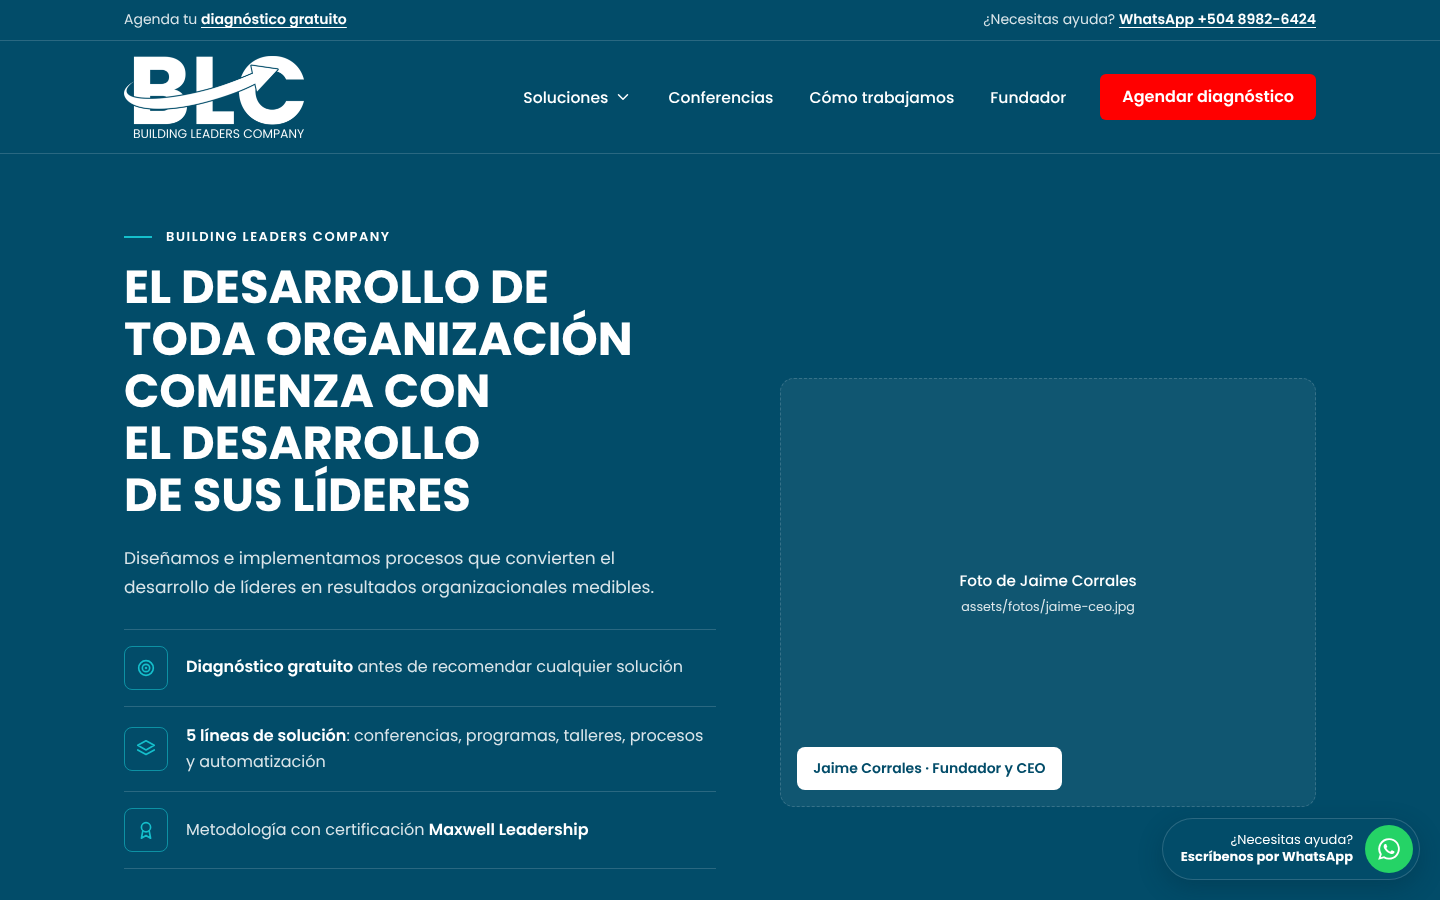
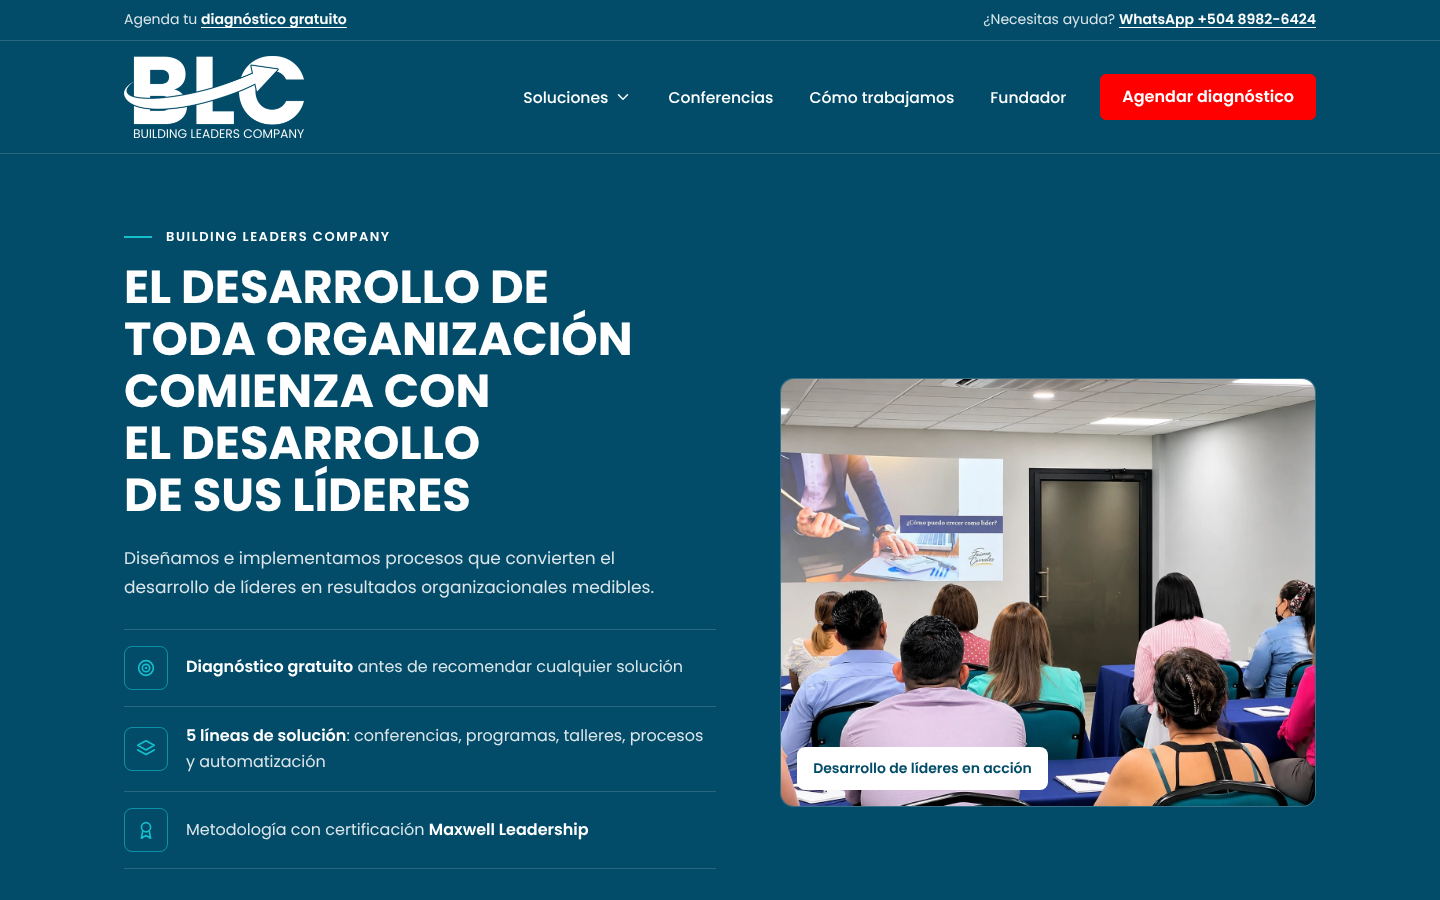
Da más protagonismo a BLC en las fotos del inicio
- Portada del inicio: sesión de liderazgo con participantes (sin Jaime)
- ¿Por qué BLC?: par de fotos de un taller y una sesión en sala de juntas
- Conferencias, ¿Quién es Jaime Corrales?: nueva foto de perfil de pie

Claude-Session: https://claude.ai/code/session_01WCj9xs9Gz3GYaHb4eT4hNZ

Changed region(s): [[0.5312, 0.4044, 1.0, 0.9644]]

diff --git a/src/index.html b/src/index.html
@@ -62,9 +62,9 @@
           </div>
         </div>
         <figure class="hero-media photo-slot photo-slot--dark">
-          <img src="/assets/fotos/jaime-ceo.jpg" alt="Jaime Corrales, Fundador y CEO de Building Leaders Company" width="1280" height="854" onerror="this.remove()">
-          <span>Foto de Jaime Corrales<br><small>assets/fotos/jaime-ceo.jpg</small></span>
-          <figcaption class="media-tag">Jaime Corrales · Fundador y CEO</figcaption>
+          <img src="/assets/fotos/sesion-liderazgo.jpg" alt="Participantes en una sesión de desarrollo de liderazgo de BLC" width="1448" height="1086" onerror="this.remove()">
+          <span>Foto de una sesión de BLC<br><small>assets/fotos/sesion-liderazgo.jpg</small></span>
+          <figcaption class="media-tag">Desarrollo de líderes en acción</figcaption>
         </figure>
       </div>
     </section>
@@ -92,6 +92,16 @@
             <h2>Especialistas en liderazgo con foco en resultados medibles</h2>
           </div>
           <p>Somos el aliado en liderazgo y desarrollo organizacional que las organizaciones eligen cuando el crecimiento de sus equipos determina el futuro del negocio.</p>
+        </div>
+        <div class="photo-pair">
+          <figure class="photo-slot">
+            <img src="/assets/fotos/taller-equipo.jpg" alt="Equipo de una organización trabajando durante un taller de BLC" width="1280" height="960" loading="lazy" onerror="this.remove()">
+            <span>Foto de un taller<br><small>assets/fotos/taller-equipo.jpg</small></span>
+          </figure>
+          <figure class="photo-slot">
+            <img src="/assets/fotos/sesion-sala.jpg" alt="Líderes en una sesión de comunicación en sala de juntas" width="1200" height="1600" loading="lazy" onerror="this.remove()">
+            <span>Foto de una sesión<br><small>assets/fotos/sesion-sala.jpg</small></span>
+          </figure>
         </div>
         <ul class="values-card" aria-label="Nuestros valores">
           <li>Liderazgo Intencional</li>

diff --git a/src/styles.css b/src/styles.css
@@ -400,3 +400,15 @@ a { color: var(--petroleo); text-underline-offset: .2em; }
 @media (max-width: 600px) { .photo-slot--banner { aspect-ratio: 4 / 3; } }
 .photo-slot img[src*="jaime-diferencia"] { object-position: 58% 30%; }
 .book-cover { object-fit: cover; padding: 0; }
+
+/* Par de fotos en "¿Por qué BLC?" */
+.photo-pair { display: grid; grid-template-columns: 1.7fr 1fr; gap: 20px; margin-bottom: 28px; }
+.photo-pair .photo-slot { height: 420px; }
+.photo-slot img[src*="sesion-liderazgo"] { object-position: 45% 50%; }
+.photo-slot img[src*="taller-equipo"] { object-position: 60% 55%; }
+.photo-slot img[src*="sesion-sala"] { object-position: 50% 60%; }
+.photo-slot img[src*="jaime-perfil"] { object-position: 75% 20%; }
+@media (max-width: 600px) {
+  .photo-pair { grid-template-columns: 1fr; }
+  .photo-pair .photo-slot { height: 260px; }
+}

diff --git a/src/conferencias.html b/src/conferencias.html
@@ -61,8 +61,8 @@
     <section class="section">
       <div class="container feature-grid">
         <figure class="photo-slot photo-slot--portrait">
-          <img src="/assets/fotos/jaime-ceo.jpg" alt="Jaime Corrales" width="1280" height="854" loading="lazy" onerror="this.remove()">
-          <span>Foto de Jaime Corrales<br><small>assets/fotos/jaime-ceo.jpg</small></span>
+          <img src="/assets/fotos/jaime-perfil.jpg" alt="Jaime Corrales, conferencista y Fundador de BLC" width="1067" height="1600" loading="lazy" onerror="this.remove()">
+          <span>Foto de Jaime Corrales<br><small>assets/fotos/jaime-perfil.jpg</small></span>
           <figcaption class="media-tag">Speaker · Coach · Trainer</figcaption>
         </figure>
         <div>
